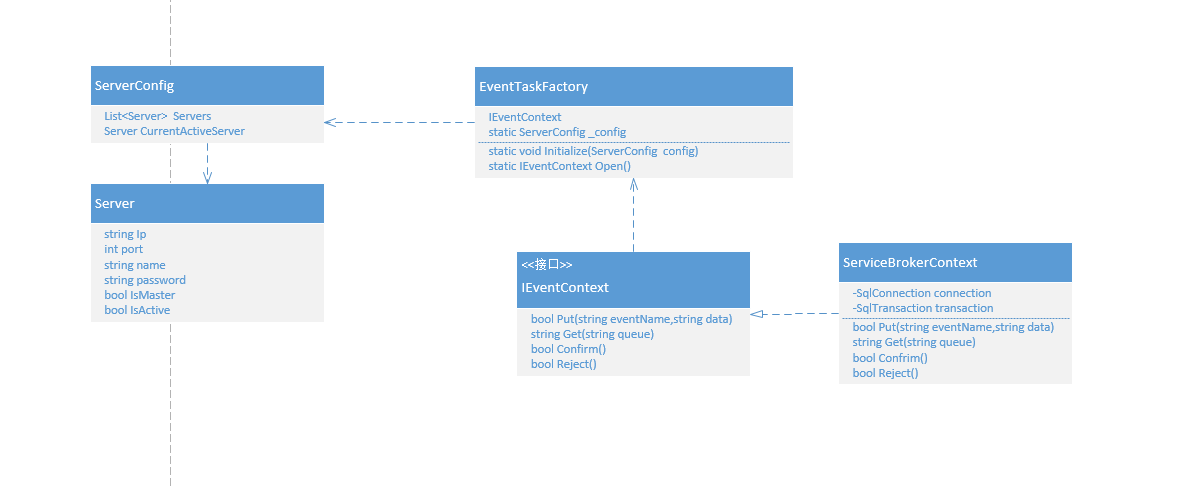
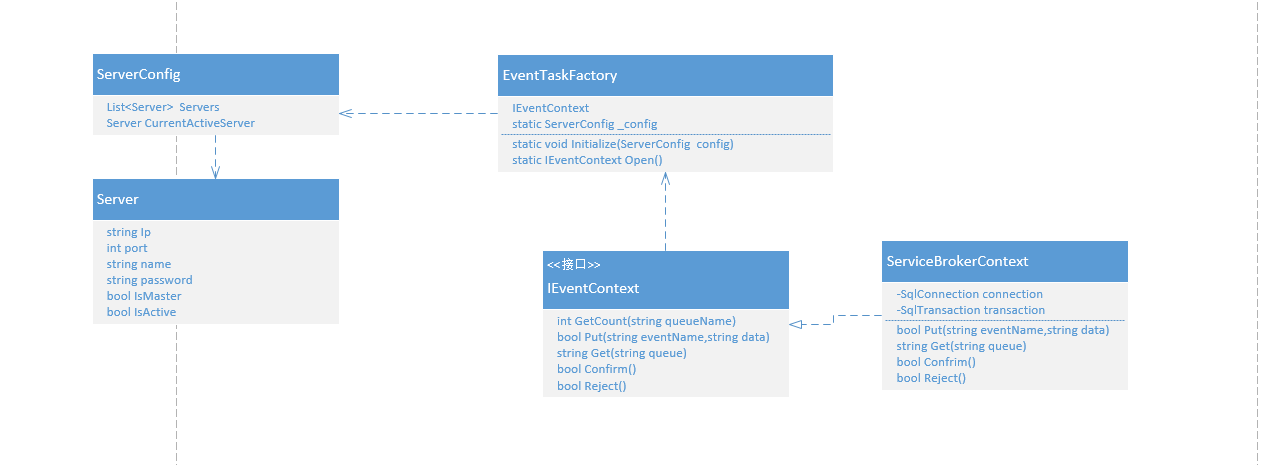
11
11

diff --git a/message queue.md b/message queue.md
@@ -138,9 +138,31 @@
 ## Event Produce  And Consume
   ![imq](mqinterface.png)
 
+### Initialize 
+
+应用程序启动时，初始化 EventFactory 配置,EventFactory 内部实现，将自动心跳检查配置的服务器状态，自动切换服务器。
+
+```c# 
+
+
+public void Initialize()
+{
+   ServerConfig serverConfig=new ServerConfig();
+   serverConfig.Servers.Add(new Server(){Ip=xxx,port=xxx,name=Master,Password=xxx,IsMaster=true,IsActive=true});//添加Server broker主服务器
+     serverConfig.Servers.Add(new Server(){Ip=xxx,port=xxx,name=Slave,Password=xxx,IsMaster=true,IsActive=true});//添加Server broker副服务器
+   EventFactory.Initialize(serverConfig);
+
+}
+ 
+
+```
+
+
 
 ### Produce
+
 ```c# 
+
  
 public class QueueData
 {
@@ -193,126 +215,208 @@ public class EventProducer
 
 ###  Consumer
 
-所有具体消费者请先实现Consumer抽象类，再加入到Initialize 方法中来。
-
-消费
+  ![imq](consume.png)
 ```c# 
   
 
- static EmailConsumer email=null;
- ....
+ 
+ 
  public void  Initialize()//消费者初始化，在程序启动的时候调用一次即可
  {
     
-  int emailThreadCount = 0;
-  int.TryParse(ConfigurationManager.AppSettings["EmailThreadCount"].ToString(),out emailThreadCount);
-   emailConsumer =new EmailConsumer(emailThreadCount);//emailThreadCount 为消费该queue开启的线程数，
-   emailConsumer.Start();
-   ...  //其他消费者 请先实现Consumer 
-   ...
-
+     int emailThreadHandleCount = 0;
+     int.TryParse(ConfigurationManager.AppSettings["EmailThreadHandleCount"].ToString(),out emailThreadHandleCount);//邮件消费队列，每个线程处理数，实际消费线程数是该值的倍数。
+     ConsumerManager.Run(new EmailConsumer(), emailThreadHandleCount);
+     ...//在此加入其它消费队列实现。
  }
 
-
-
-public abstract class Consumer
-  {
-    private List<Thread> threads;
-    private int threadCount;
-    protected int ThreadCount { get { return threadCount; } set { threadCount = value; } }
-    public Consumer(int threadCount)
-      {
-          this.threadCount = threadCount;
-          this.threads = new List<Thread>();
-           
-      }
-
-
-    public void Start()
+    public class ConsumerManager
     {
-      for (int i = 0; i < ThreadCount; i++)
-      {
-        Thread newThread = new Thread(Consume);
-        newThread.IsBackground = true;
-        newThread.Start();
-        threads.Add(newThread);
-      }
-    }
-    public abstract void Consume();
-    
 
-    public void End()
-    {
-        foreach (Thread thread in threads)
+        private static Dictionary<string, ConsumerWrap> consumers = new Dictionary<string, ConsumerWrap>();
+
+        public static void Run(IConsumer consumer,int everyThreadHandleCount)
         {
-            thread.Abort();
+            if (!consumers.ContainsKey(consumer.QueueName))
+                consumers.Add(consumer.QueueName, new ConsumerWrap(consumer, everyThreadHandleCount));
         }
+
     }
 
-    protected  QueueData SerializeObject(string data)
+
+
+   public class ConsumerWrap
+    {
+        private ConcurrentBag<ConsumerThread> threads;
+        private IConsumer consumer;
+        private int everyThreadHandleCount;
+        private int queueDataCount = 0;
+        private Thread queryCountThread = null;
+        public ConsumerWrap(IConsumer consumer, int everyThreadHandleCount)
+        {
+            this.consumer = consumer;
+            this.everyThreadHandleCount = everyThreadHandleCount;
+            this.threads = new ConcurrentBag<ConsumerThread>();
+            this.UpdateConsumers(everyThreadHandleCount);
+            this.queryCountThread = new Thread(QueryCount);
+            this.queryCountThread.IsBackground = true;
+            this.queryCountThread.Start();
+        }
+
+        private void UpdateConsumers(int queueDataCount)
+        {
+            int threadCount = (int)Math.Ceiling((Decimal)(queueDataCount / everyThreadHandleCount));
+
+            int dif = threadCount - threads.Count;
+            if (dif == 0) return;
+            if (dif > 0)
+            {
+                for (int i = 0; i < dif; i++)
+                {
+                    ConsumerThread consumerThread = new ConsumerThread(consumer);
+                    consumerThread.IsRunning = true;
+                }
+            }
+            else
+            {
+                dif = System.Math.Abs(dif);
+                for (int i = 0; i < dif; i++)
+                {
+                    ConsumerThread consumerThread = null;
+                    if (threads.TryTake(out consumerThread))
+                        consumerThread.IsRunning = false;
+                }
+
+            }
+        }
+
+        private void QueryCount()
+        {
+            while (true)
+            {
+
+
+                IEventContext context = null;
+                try
+                {
+                    context = EventFactory.Open();
+                    queueDataCount = context.GetCount(consumer.QueueName);
+                    this.UpdateConsumers(queueDataCount);
+                }
+                catch (Exception ex)
+                {
+
+                }
+
+                Thread.Sleep(1000);
+            }
+        }
+
+    }
+
+
+    public class ConsumerThread
     {
 
-    return    JsonConvert.SerializeObject(chat);   
-    }   
+        public IConsumer Consumer { get; set; }
+        private bool isRunning = false;
+        private Thread thread;
+        public bool IsRunning
+        {
+            get { return isRunning; }
+            set
+            {
+                isRunning = value;
+                if (isRunning)
+                {
+                    thread.Start();
+                }
+            }
+        }
 
-  }
+        public ConsumerThread(IConsumer consumer)
+        {
+            this.Consumer = consumer;
+
+            thread = new Thread(excute);
+            thread.IsBackground = true;
+
+        }
+
+        void excute()
+        {
+            while (isRunning)
+            {
+                Consumer.Consume();
+                Thread.Sleep(50);
+            }
+            thread.Abort();
+            thread = null;
+        }
+
+    }
 
 
-public class EmailConsumer: Consumer
+
+public interface IConsumer
+{
+  string QueueName { get; }
+  void Consume();
+
+}
+
+
+public class EmailConsumer: IConsumer
 {
 
-  public EmailConsumer(int threadCount) : base(threadCount)
-  {
+  public string QueueName { get { return "EmailQueue"; } }
+ 
 
-  }
-
-  public override void Consume()
+  public  void Consume()
   {
-      while(true)
-        {
-          IEventContext context=  EventFactory.Open();
-          try
-          {
-          string data= context.Get("EmailQueue");
-          if(string.isnullorempty(data))continue;
-          QueueData queueData=SerializeObject(data);
-          if(queueData==null)
-          {
-            //添加到错误队列中
-            context.Put("Error",data);
-            context.Confirm();
-            continue;
-          }
-          switch(queueData.Type)
-          {
-            ...
-            case EventType.offlineMessageSubmitted:
-                  if(queueData.Data数据格式及内容校验==false)
-                  {
-                  //添加到错误队列中
-                  context.Put("Error",data);
-                  context.Confirm();
-                  continue;
-                  }
-              //发邮件代码
-              ...
-             Thread.Sleep(50);
-            break;
-            ...
-          }
-          
-            
-          ... 
-          //完成持久化操作
+       
+      IEventContext context=  EventFactory.Open();
+      try
+      {
+      string data= context.Get("EmailQueue");
+      if(string.isnullorempty(data))continue;
+      QueueData queueData=SerializeObject(data);
+      if(queueData==null)
+      {
+        //添加到错误队列中
+        context.Put("Error",data);
+        context.Confirm();
+        continue;
+      }
+      switch(queueData.Type)
+      {
+        ...
+        case EventType.offlineMessageSubmitted:
+              if(queueData.Data数据格式及内容校验==false)
+              {
+              //添加到错误队列中
+              context.Put("Error",data);
+              context.Confirm();
+              //记录日志
+              continue;
+              }
+          //发邮件代码
           ...
-          context.Confirm();
-          } 
-          catch(exception ex)
-          {
-            context.Roolback();
-          }
-          }
-  
+          Thread.Sleep(50);
+        break;
+        ...
+      }
+      
+        
+      ... 
+      //完成持久化操作
+      ...
+      context.Confirm();
+      } 
+      catch(exception ex)
+      {
+        context.Roolback();
+      }   
   }
 
   
